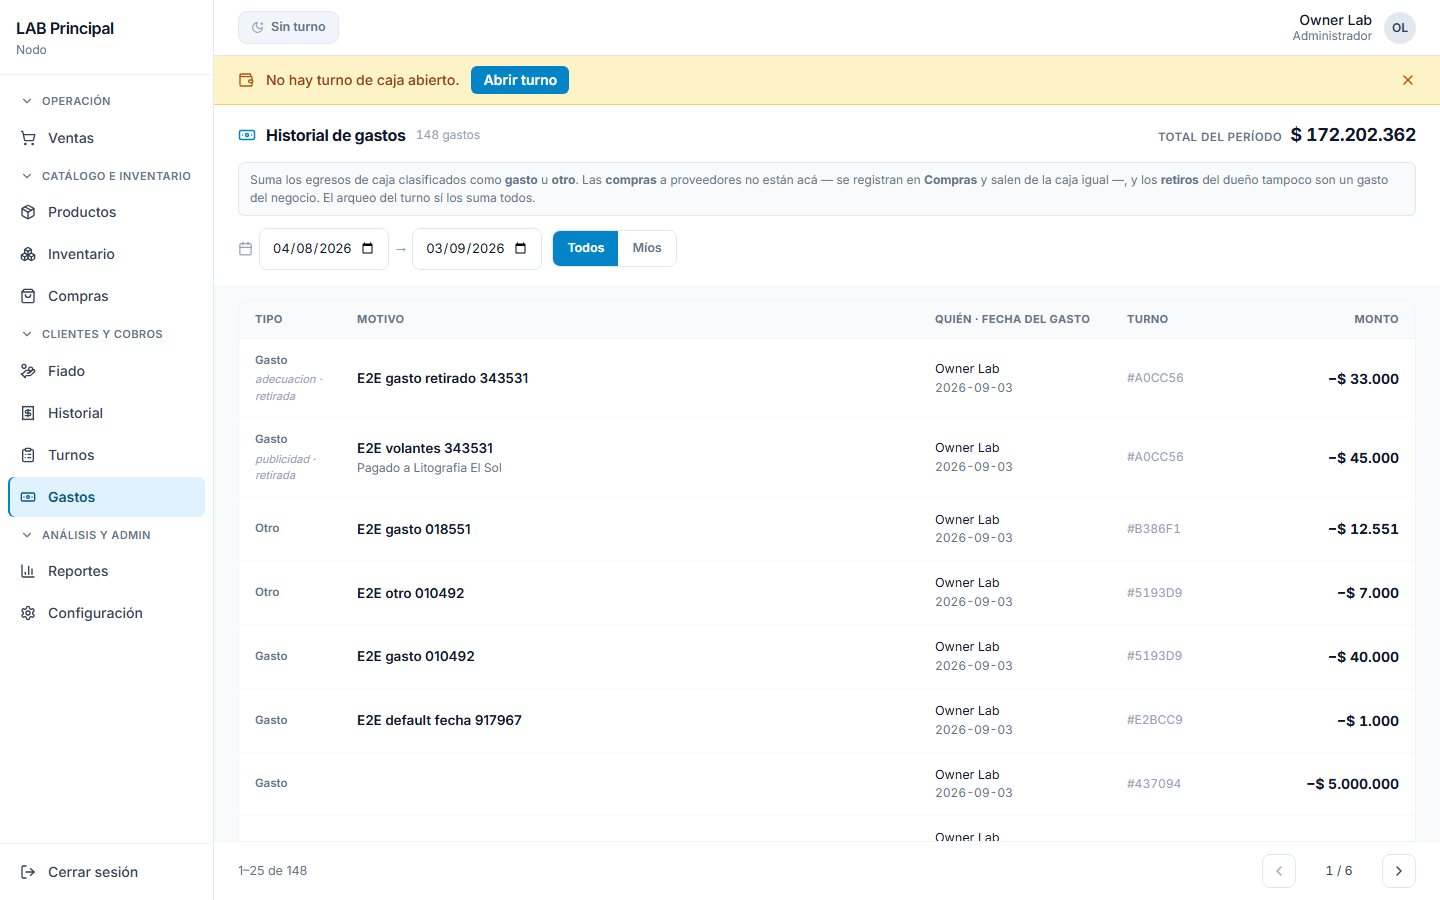
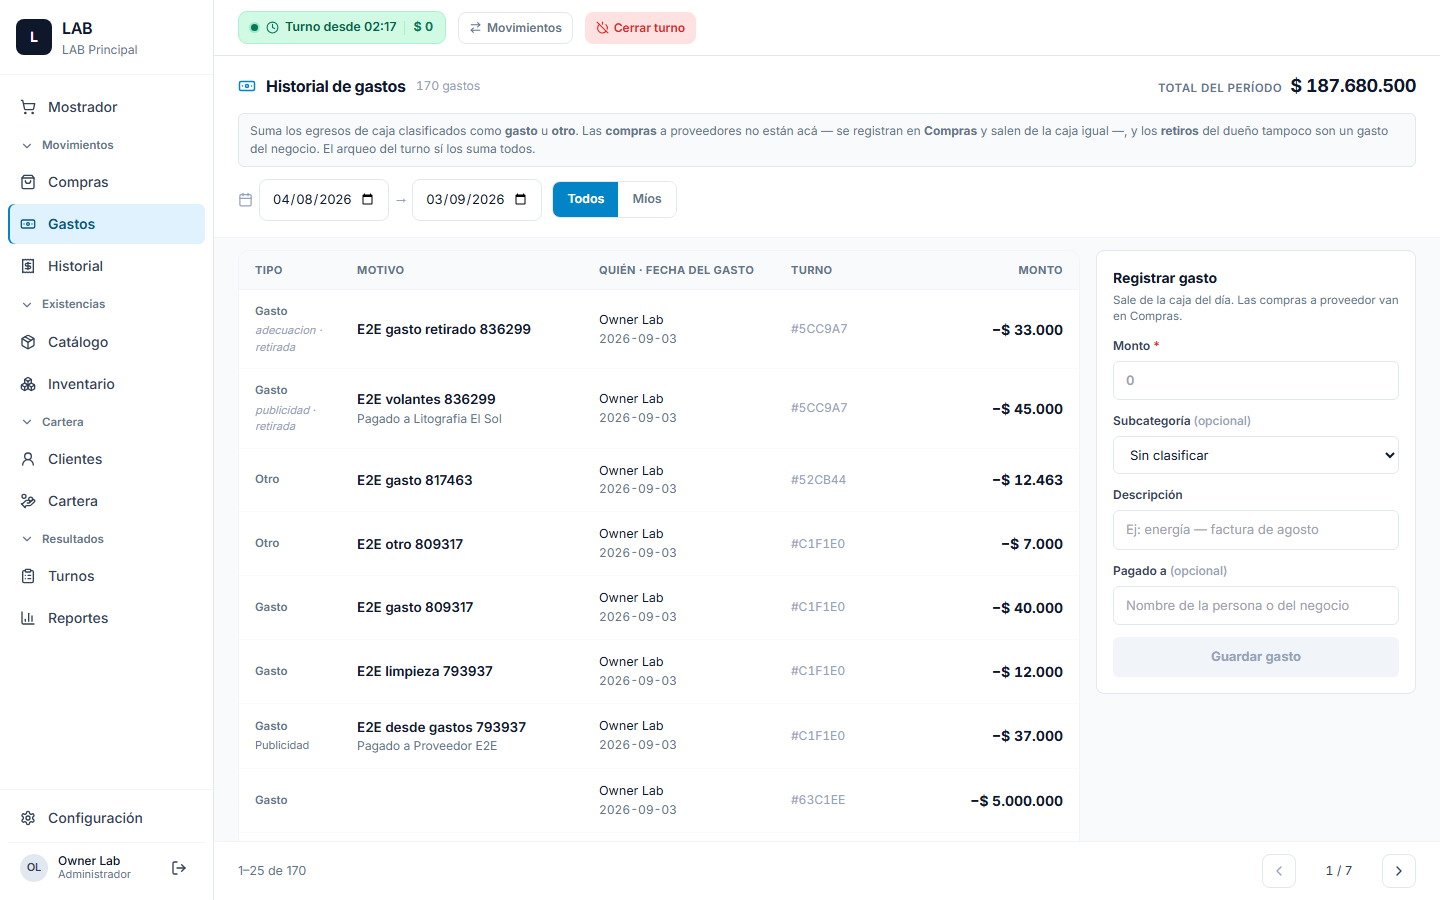
feat(gastos): A6 tanda 3 — el formulario lateral de §7.8
NO es re-skin: la pantalla no podia hacer lo que nombra. §7.8 pide «lienzo mas
frio, FORMULARIO LATERAL y franja de periodo», y Gastos solo listaba — el unico
camino de alta era el modal del banner de turno, que vive en Mostrador. Para
registrar el arriendo habia que ir a la pantalla de vender.

DECISION SOBRE EL CAMINO VIEJO: el modal del banner SE CONSERVA, y la razon es
que NO SON EL MISMO ALTA. Ese modal registra cualquier movimiento de caja
—ingresos (base, abono_cliente), retiros y "otro"— y este formulario registra
solo gastos. Retirarlo quitaria capacidades que nada reemplaza.
R1 se cumple donde importa: la ESCRITURA es una sola (addMovement). Hay dos
superficies, no dos implementaciones. Disparador para revisarlo: el dia que los
dos formularios pidan campos distintos para el mismo gasto.

- exige JORNADA ABIERTA y lo dice: cash_movements.jornada_id es not null, asi
  que sin jornada el formulario NO se ofrece y la pantalla explica por que.
  Mismo criterio que el boton que no se renderiza hasta que sus insumos
  cargaron: un formulario que va a fallar es peor que su ausencia
- subcategoria de un desplegable con la lista de la sede, y la nota del activo
- limpia despues de guardar: un formulario que conserva el monto anterior es la
  forma mas barata de registrar dos veces lo mismo

🔴 Y destapo un defecto que el alta en otra pantalla escondia: addMovement NO
invalidaba `expenses_history`. El gasto se guardaba y la lista de al lado seguia
[…]

diff --git a/src/components/gastos/RegistrarGastoForm.tsx b/src/components/gastos/RegistrarGastoForm.tsx
@@ -1,0 +1,191 @@
+import { useState } from 'react'
+import { toast } from 'react-hot-toast'
+import { useCashShift } from '@/hooks/useCashShift'
+import { useSedeConfig } from '@/hooks/useSedeConfig'
+import {
+  DEFAULT_EXPENSE_SUBCATEGORIES, NOTA_ACTIVO, esSubcategoriaDeActivo,
+} from '@/lib/sedeConfig'
+import { mensajeDeError } from '@/lib/errores'
+
+/**
+ * Formulario lateral de Gastos — A6 · tanda 3, §7.8.
+ *
+ * 🔴 POR QUÉ EXISTE, Y POR QUÉ NO ES RE-SKIN. §7.8 pide que Gastos tenga
+ * «lienzo más frío, **formulario lateral** y franja de período». La pantalla
+ * sólo listaba: el único camino de alta era el modal de movimientos del banner
+ * de turno, que vive en **Mostrador** — para registrar el arriendo había que ir
+ * a la pantalla de vender.
+ *
+ * ── DECISIÓN SOBRE EL CAMINO VIEJO (2026-09-03) ───────────────────────────
+ * **El modal del banner de turno SE CONSERVA**, y la razón es que **no son el
+ * mismo alta**: ese modal registra *cualquier* movimiento de caja —ingresos
+ * (`base`, `abono_cliente`), retiros y `otro`— y este formulario registra
+ * **sólo gastos**. Retirarlo quitaría capacidades que nada reemplaza.
+ *
+ * ⚠ Y R1 se cumple donde importa: **la escritura es UNA sola**
+ * (`useCashShift().addMovement`). Hay dos superficies, no dos implementaciones;
+ * lo que se sincroniza solo es lo que no está duplicado.
+ * **Disparador para revisarlo**, concreto: el día que los dos formularios pidan
+ * campos distintos para el mismo gasto. Ahí dejan de ser dos vistas de lo mismo.
+ *
+ * 🔴 EXIGE JORNADA ABIERTA, y no es una preferencia: `cash_movements.jornada_id`
+ * es `not null`. Sin jornada **el formulario no se ofrece** y la pantalla dice
+ * por qué — mismo criterio que el botón que no se renderiza hasta que sus
+ * insumos cargaron: un formulario que va a fallar es peor que su ausencia.
+ */
+export function RegistrarGastoForm() {
+  const { isOpen, addMovement, isAddingMovement } = useCashShift()
+  const { config } = useSedeConfig()
+  const subcategorias = config.expense_subcategories ?? DEFAULT_EXPENSE_SUBCATEGORIES
+
+  const [rawMonto, setRawMonto] = useState('')
+  const [descripcion, setDescripcion] = useState('')
+  const [subcategoria, setSubcategoria] = useState('')
+  const [pagadoA, setPagadoA] = useState('')
+
+  const monto = parseInt(rawMonto || '0', 10) || 0
+  const puedeGuardar = monto > 0 && !isAddingMovement
+
+  const inputStyle: React.CSSProperties = {
+    width: '100%', padding: '9px 12px', borderRadius: 'var(--r-2)',
+    border: '1px solid var(--border)', background: 'var(--surface)',
+    color: 'var(--ink)', fontSize: 13, outline: 'none',
+  }
+  const labelStyle: React.CSSProperties = {
+    display: 'block', fontSize: 12, fontWeight: 600,
+    color: 'var(--ink-2)', marginBottom: 6,
+  }
+
+  if (!isOpen) {
+    return (
+      <div
+        data-testid="gasto-sin-jornada"
+        style={{
+          padding: '14px 16px', borderRadius: 'var(--r-3)',
+          background: 'var(--warning-soft)', border: '1px solid var(--warning-border)',
+          color: 'var(--warning-on-soft)', fontSize: 12.5, lineHeight: 1.5,
+        }}
+      >
+        <strong>Abrí la jornada de caja para registrar un gasto.</strong> Un gasto
+        sale del cajón del día, así que necesita una jornada a la cual atribuirse.
+        El formulario no se muestra a propósito: guardarlo ahora fallaría.
+      </div>
+    )
+  }
+
+  const guardar = async () => {
+    if (!puedeGuardar) return
+    try {
+      await addMovement({
+        type: 'out',
+        // La pantalla de Gastos registra GASTOS. `otro` y `retiro` siguen
+        // viviendo en el modal de movimientos, que cubre todos los tipos.
+        categoria: 'gasto',
+        amount: monto,
+        reason: descripcion.trim() || null,
+        subcategoria: subcategoria || null,
+        pagado_a: pagadoA.trim() || null,
+      })
+      toast.success('Gasto registrado')
+      setRawMonto(''); setDescripcion(''); setSubcategoria(''); setPagadoA('')
+    } catch (err) {
+      toast.error(mensajeDeError(err, 'No se pudo registrar el gasto'))
+    }
+  }
+
+  return (
+    <div
+      data-testid="gasto-form"
+      style={{
+        background: 'var(--surface)', border: '1px solid var(--border)',
+        borderRadius: 'var(--r-3)', padding: 16,
+        display: 'flex', flexDirection: 'column', gap: 12,
+      }}
+    >
+      <div>
+        <h3 style={{ fontSize: 14, fontWeight: 700, color: 'var(--ink)', margin: 0 }}>
+          Registrar gasto
+        </h3>
+        <p style={{ fontSize: 11.5, color: 'var(--ink-3)', margin: '4px 0 0', lineHeight: 1.45 }}>
+          Sale de la caja del día. Las compras a proveedor van en Compras.
+        </p>
+      </div>
+
+      <div>
+        <label style={labelStyle}>Monto <span style={{ color: 'var(--danger)' }}>*</span></label>
+        <input
+          type="text"
+          inputMode="numeric"
+          data-testid="gasto-monto"
+          value={rawMonto}
+          onChange={(e) => setRawMonto(e.target.value.replace(/\D/g, ''))}
+          placeholder="0"
+          style={{ ...inputStyle, fontVariantNumeric: 'tabular-nums', fontWeight: 600 }}
+        />
+      </div>
+
+      <div>
+        <label style={labelStyle}>
+          Subcategoría <span style={{ color: 'var(--ink-4)', fontWeight: 500 }}>(opcional)</span>
+        </label>
+        {/* Desplegable y no texto libre, igual que en el modal (deuda 45):
+            "publicidad" y "Publicidad" serían dos filas del reporte. */}
+        <select
+          data-testid="gasto-subcategoria"
+          value={subcategoria}
+          onChange={(e) => setSubcategoria(e.target.value)}
+          style={{ ...inputStyle, cursor: 'pointer', appearance: 'auto' }}
+        >
+          <option value="">Sin clasificar</option>
+          {subcategorias.map((sc) => <option key={sc} value={sc}>{sc}</option>)}
+        </select>
+        {esSubcategoriaDeActivo(subcategoria) && (
+          <p style={{ margin: '6px 0 0', fontSize: 11.5, color: 'var(--warning-on-soft)', lineHeight: 1.45 }}>
+            {NOTA_ACTIVO}
+          </p>
+        )}
+      </div>
+
+      <div>
+        <label style={labelStyle}>Descripción</label>
+        <input
+          type="text"
+          data-testid="gasto-descripcion"
+          value={descripcion}
+          onChange={(e) => setDescripcion(e.target.value)}
+          placeholder="Ej: energía — factura de agosto"
+          style={inputStyle}
+        />
+      </div>
+
+      <div>
+        <label style={labelStyle}>
+          Pagado a <span style={{ color: 'var(--ink-4)', fontWeight: 500 }}>(opcional)</span>
+        </label>
+        <input
+          type="text"
+          data-testid="gasto-pagado-a"
+          value={pagadoA}
+          onChange={(e) => setPagadoA(e.target.value)}
+          placeholder="Nombre de la persona o del negocio"
+          style={inputStyle}
+        />
+      </div>
+
+      <button
+        data-testid="gasto-guardar"
+        onClick={guardar}
+        disabled={!puedeGuardar}
+        style={{
+          padding: '10px 16px', borderRadius: 'var(--r-2)', border: 'none',
+          background: puedeGuardar ? 'var(--action)' : 'var(--border-2)',
+          color: puedeGuardar ? '#fff' : 'var(--ink-4)',
+          fontSize: 13, fontWeight: 700, fontFamily: 'inherit',
+          cursor: puedeGuardar ? 'pointer' : 'not-allowed',
+        }}
+      >
+        {isAddingMovement ? 'Guardando…' : 'Guardar gasto'}
+      </button>
+    </div>
+  )
+}

diff --git a/tests/gasto-desde-gastos.spec.ts b/tests/gasto-desde-gastos.spec.ts
@@ -1,0 +1,89 @@
+import { test, expect } from '@playwright/test'
+import { loginAsOwner } from './helpers/auth'
+import { openShiftIfClosed, closeShiftIfOpen } from './helpers/shift'
+
+// ============================================================================
+// UN GASTO SE REGISTRA DESDE GASTOS — A6 · tanda 3 (§7.8)
+//
+// 🔴 NO ES RE-SKIN: la pantalla no podía hacer lo que nombra. §7.8 pide que
+//    Gastos tenga «lienzo más frío, **formulario lateral** y franja de período»,
+//    y la pantalla sólo LISTABA. El único camino de alta era el modal de
+//    movimientos del **banner de turno**, que vive en Mostrador — o sea que
+//    para registrar un gasto había que ir a la pantalla de vender.
+//
+// ⚠ Y REGISTRAR UN GASTO EXIGE JORNADA ABIERTA, y no por gusto:
+//    `cash_movements.jornada_id` es `not null`, así que sin jornada no hay
+//    dónde colgar el movimiento. El formulario **no se ofrece** en ese caso y
+//    dice por qué — no se ofrece y falla.
+// ============================================================================
+
+test.describe.configure({ mode: 'serial' })
+
+const SUFFIX = Date.now().toString().slice(-6)
+
+test('🔴 sin jornada abierta el formulario NO se ofrece, y la pantalla dice por qué', async ({ page }) => {
+  await loginAsOwner(page)
+  await page.goto('/ventas')
+  await closeShiftIfOpen(page)
+
+  await page.goto('/historial-gastos')
+  await expect(
+    page.getByTestId('gasto-form'),
+    'sin jornada no hay dónde colgar el movimiento: el formulario no se ofrece',
+  ).toHaveCount(0)
+  await expect(
+    page.getByTestId('gasto-sin-jornada'),
+    'y se dice por qué, en vez de dejar un formulario que va a fallar',
+  ).toBeVisible({ timeout: 15_000 })
+})
+
+test('🔴 con jornada abierta, el gasto se registra DESDE Gastos y aparece en la lista', async ({ page }) => {
+  await loginAsOwner(page)
+  await page.goto('/ventas')
+  await openShiftIfClosed(page, 0)
+
+  await page.goto('/historial-gastos')
+  const form = page.getByTestId('gasto-form')
+  await expect(
+    form,
+    'GASTOS NO PUEDE REGISTRAR UN GASTO (§7.8): la pantalla sólo lista, y el ' +
+    'único camino de alta vive en el banner de turno, en Mostrador',
+  ).toBeVisible({ timeout: 15_000 })
+
+  const MOTIVO = `E2E desde gastos ${SUFFIX}`
+  await page.getByTestId('gasto-monto').fill('37000')
+  await page.getByTestId('gasto-descripcion').fill(MOTIVO)
+  await page.getByTestId('gasto-pagado-a').fill('Proveedor E2E')
+  // La subcategoría sale de la lista de la sede (deuda 45), igual que en el modal.
+  await page.getByTestId('gasto-subcategoria').selectOption({ index: 1 })
+  await page.getByTestId('gasto-guardar').click()
+
+  // Aparece en la lista SIN recargar: es la misma pantalla.
+  await expect(
+    page.getByTestId('expense-row').filter({ hasText: MOTIVO }),
+    'el gasto recién registrado tiene que aparecer en la lista de al lado',
+  ).toHaveCount(1, { timeout: 15_000 })
+
+  // Y con lo que se escribió, no con un default.
+  const fila = page.getByTestId('expense-row').filter({ hasText: MOTIVO })
+  await expect(fila.getByTestId('expense-pagado-a')).toContainText('Proveedor E2E')
+  await expect(fila.getByTestId('expense-amount')).toContainText('37.000')
+})
+
+test('🔴 el formulario limpia después de guardar: el próximo gasto no hereda el anterior', async ({ page }) => {
+  // Un formulario que conserva el monto anterior es la forma más barata de
+  // registrar dos veces lo mismo sin notarlo.
+  await loginAsOwner(page)
+  await page.goto('/ventas')
+  await openShiftIfClosed(page, 0)
+  await page.goto('/historial-gastos')
+
+  await page.getByTestId('gasto-monto').fill('12000')
+  await page.getByTestId('gasto-descripcion').fill(`E2E limpieza ${SUFFIX}`)
+  await page.getByTestId('gasto-guardar').click()
+
+  await expect(page.getByTestId('expense-row').filter({ hasText: `E2E limpieza ${SUFFIX}` }))
+    .toHaveCount(1, { timeout: 15_000 })
+  await expect(page.getByTestId('gasto-monto'), 'el monto se limpia').toHaveValue('')
+  await expect(page.getByTestId('gasto-descripcion'), 'y la descripción también').toHaveValue('')
+})

diff --git a/src/pages/ExpensesHistoryPage.tsx b/src/pages/ExpensesHistoryPage.tsx
@@ -7,6 +7,7 @@ import {
 import type { HistoryScope } from '@/hooks/useShiftHistory'
 import { useSedeConfig } from '@/hooks/useSedeConfig'
 import { DEFAULT_EXPENSE_SUBCATEGORIES } from '@/lib/sedeConfig'
+import { RegistrarGastoForm } from '@/components/gastos/RegistrarGastoForm'
 
 // ─── Helpers ──────────────────────────────────────────────────────
 
@@ -155,8 +156,10 @@ export function ExpensesHistoryPage() {
         </div>
       </div>
 
-      {/* List */}
-      <div style={{ flex: 1, overflow: 'auto', padding: '12px 24px 24px' }}>
+      {/* 🔴 §7.8: «formulario LATERAL». La lista y el alta conviven en la misma
+          pantalla — antes había que ir a Mostrador para registrar un gasto. */}
+      <div style={{ flex: 1, overflow: 'auto', padding: '12px 24px 24px', display: 'flex', gap: 16, alignItems: 'flex-start' }}>
+        <div style={{ flex: 1, minWidth: 0 }}>
         {isLoading ? (
           <div style={{ padding: 50, textAlign: 'center', color: 'var(--ink-4)', fontSize: 13.5 }}>
             Cargando egresos...
@@ -255,6 +258,13 @@ export function ExpensesHistoryPage() {
             ))}
           </div>
         )}
+        </div>
+
+        {/* El formulario lateral (§7.8). Ancho fijo: lo que se comprime es la
+            lista, igual que en el mostrador se comprime el catálogo. */}
+        <aside style={{ width: 320, flexShrink: 0 }}>
+          <RegistrarGastoForm />
+        </aside>
       </div>
 
       {/* Pagination */}

diff --git a/src/hooks/useCashShift.ts b/src/hooks/useCashShift.ts
@@ -178,6 +178,13 @@ export function useCashShift() {
     onSuccess: (_, vars) => {
       invalidateMovements()
       invalidateSales()
+      // 🔴 El HISTORIAL DE GASTOS deriva de `cash_movements`, así que cualquier
+      //    movimiento lo desactualiza. Faltaba, y no se notaba porque el alta
+      //    vivía en otra pantalla: con el formulario lateral de §7.8 el gasto se
+      //    guardaba y la lista de al lado seguía mostrando lo de antes.
+      //    Se invalida acá —donde ocurre la escritura— y no en el formulario:
+      //    así también sirve para el alta desde el banner de turno.
+      queryClient.invalidateQueries({ queryKey: ['expenses_history'] })
       toast.success(vars.type === 'in' ? 'Ingreso registrado' : 'Egreso registrado')
     },
     onError: () => toast.error('Error al registrar movimiento'),
